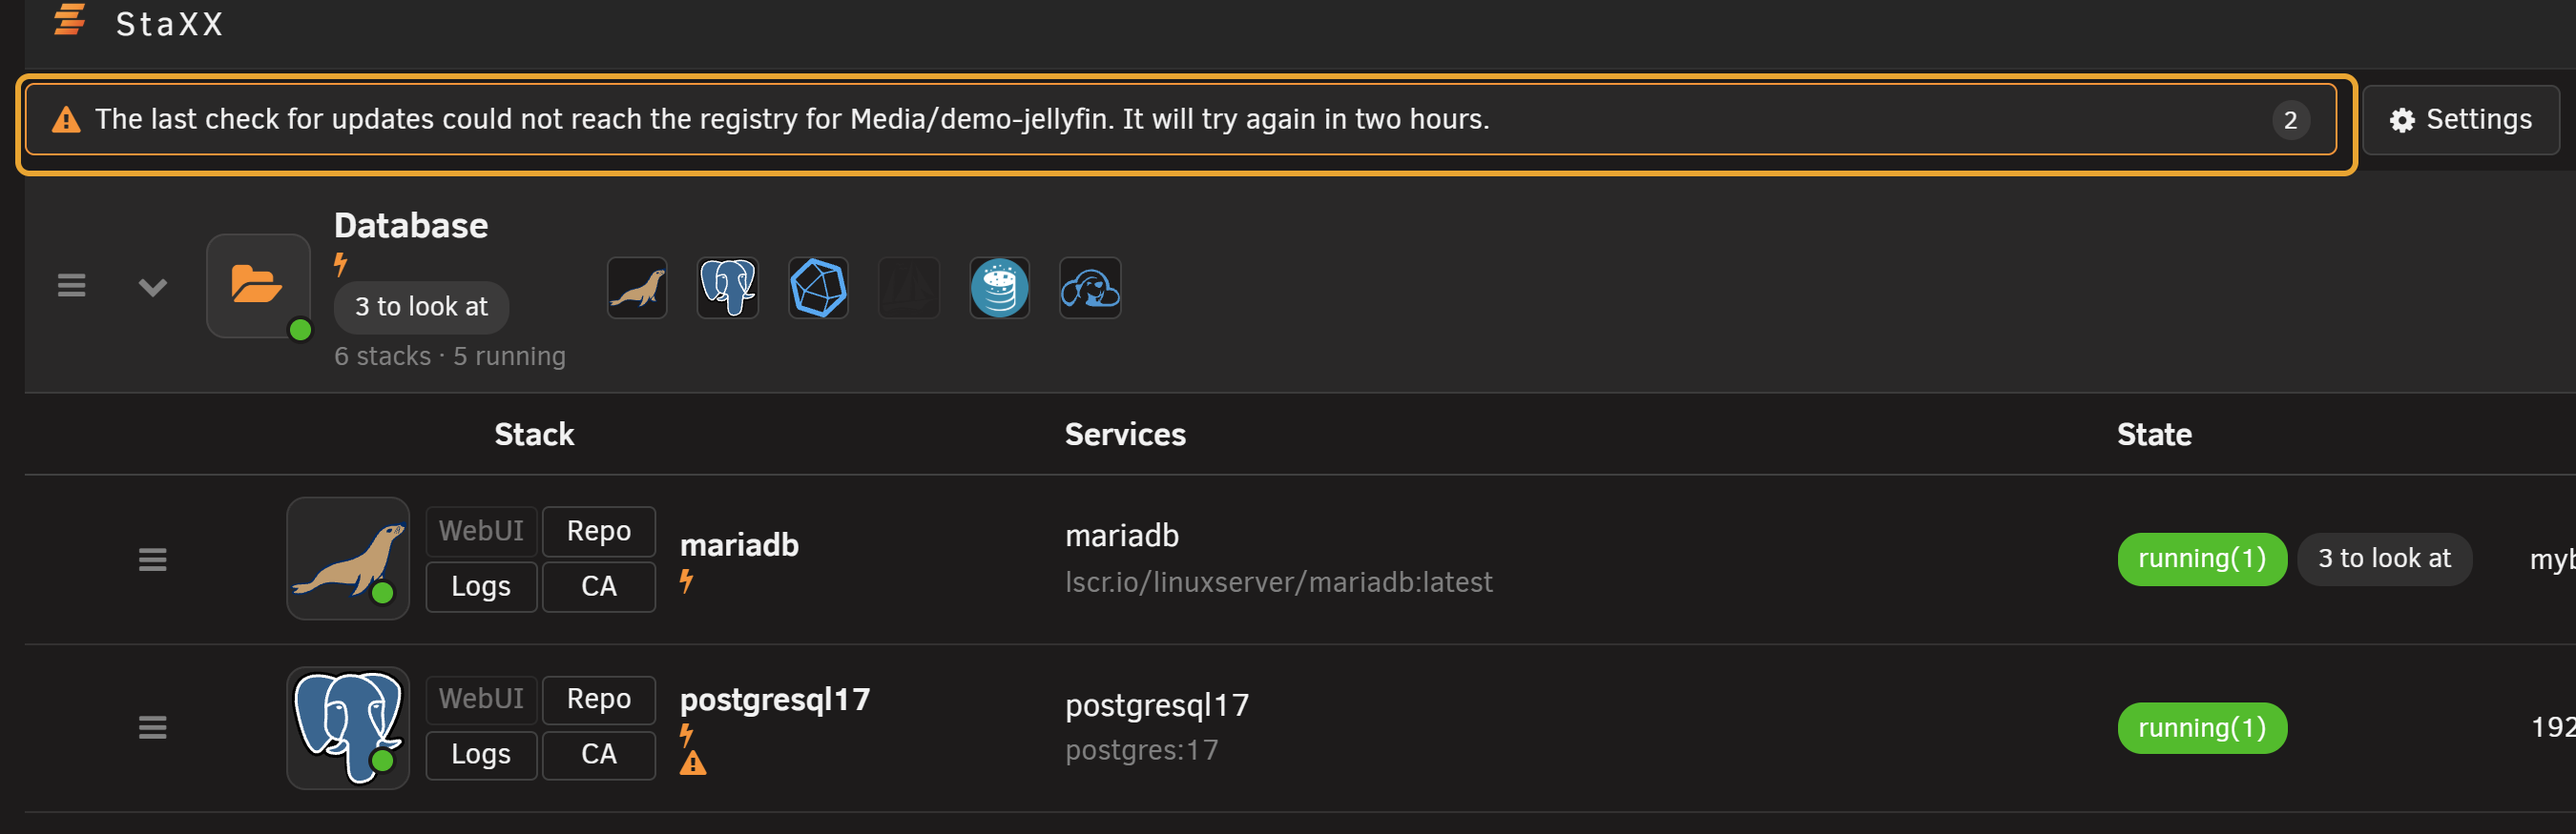
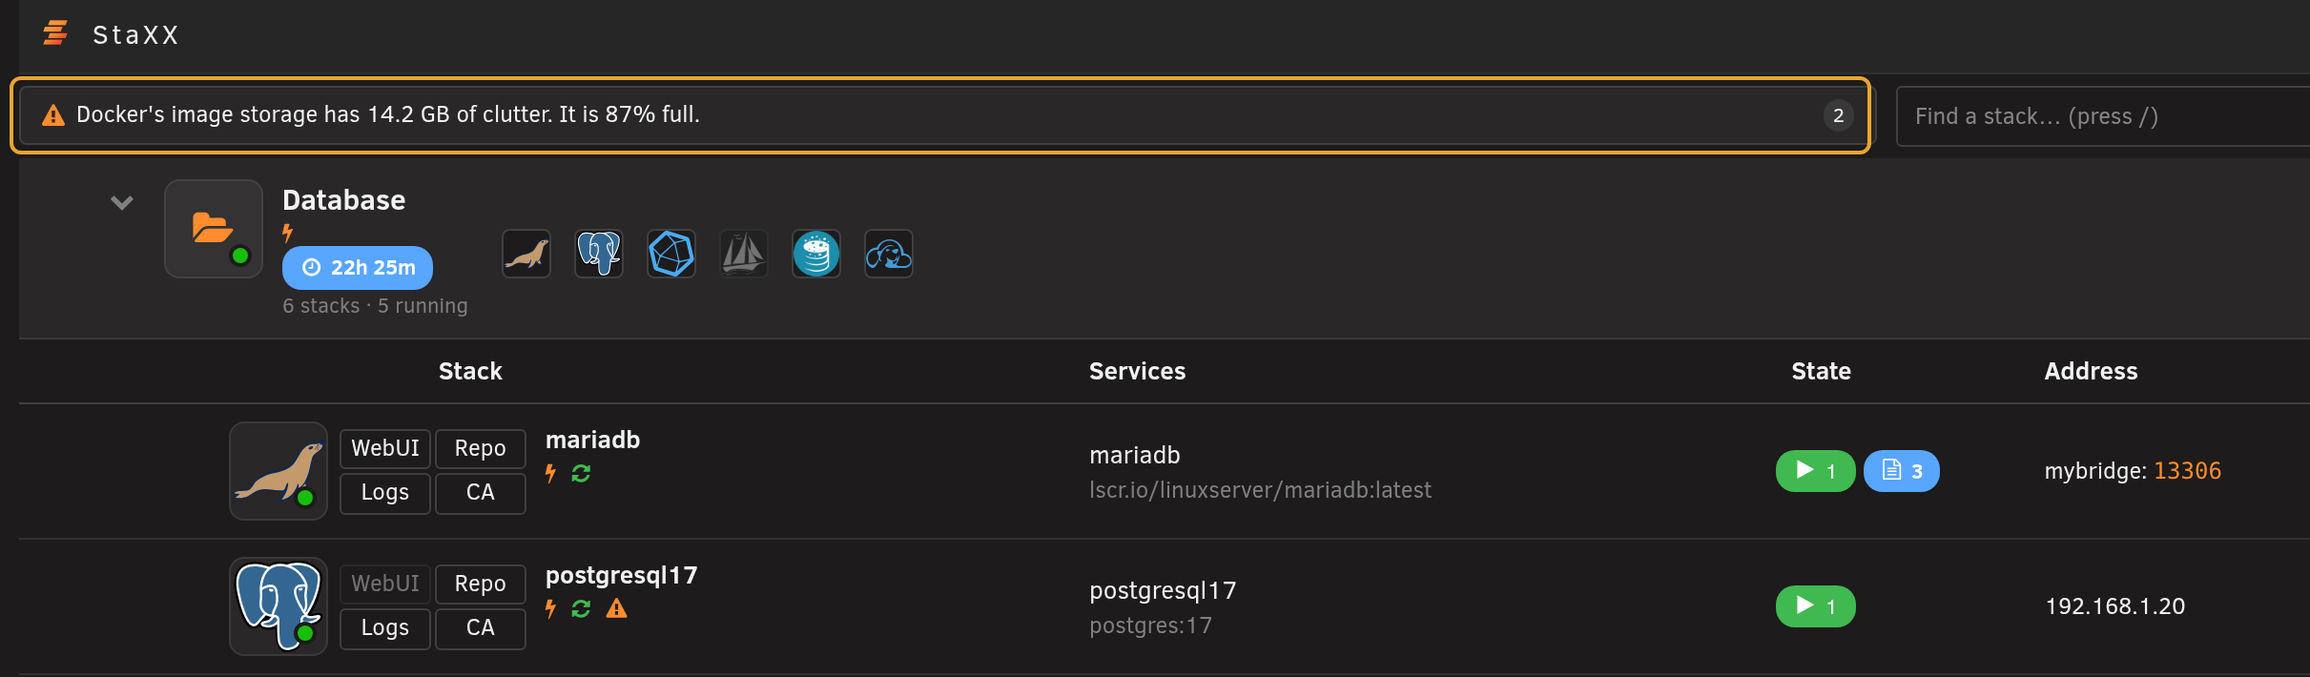
Guide: the stack list page re-shot as the page draws now, locked; a Reordering the list section on Unraid's padlock; row marks and row parts as centred close-ups (PLAN_228)
Claude-Session: https://claude.ai/code/session_01P1YRrWifJ1tpeExJ9ovCp1

diff --git a/docs/guide/the-stack-list.md b/docs/guide/the-stack-list.md
@@ -43,9 +43,9 @@ StaXX remembers what you have dismissed in this browser for a week before showin
 messages, such as Docker not running, cannot be dismissed and clear themselves once the problem is
 fixed.
 
-![The notice line to the left of the button row, ringed: a warning icon, one message about a check that could not reach the registry, and a count of 2 at its right end, with the Database folder and two of its stacks beneath](../images/guide/the-stack-list-notices-ticker.png)
+![The notice line to the left of the button row, ringed: a warning icon, a message saying Docker's image storage has 14.2 GB of clutter and is 87% full, and a count of 2 at its right end, with the Database folder and two of its stacks beneath](../images/guide/the-stack-list-notices-ticker.png)
 
-![The Notifications panel opened under that line: two entries, each with an icon, its message, how long ago it arrived and a dismiss cross, one carrying a Check now button, and a Dismiss all button in the panel's footer](../images/guide/the-stack-list-notices-panel.png)
+![The Notifications panel opened under that line: two entries, each with an icon, its message, how long ago it arrived and a dismiss cross, the first carrying a Review stored images button, and a Dismiss all button in the panel's footer](../images/guide/the-stack-list-notices-panel.png)
 
 ## The title bar
 
@@ -91,7 +91,7 @@ sideways or a small laptop, two on a tablet held upright, one on a phone.
 
 ![The same folder on a tablet held upright: the Database heading, then its stacks as cards two across](../images/guide/the-stack-list-cards-two.png)
 
-![The Database folder on a phone: the heading gives its name, its update marker and its "6 stacks, 5 running" line the full width of the screen, with its six app icons on a line of their own beneath; then its stacks one card per row, each with the WebUI, Logs, Repo and CA buttons on a line of their own at a finger's size and the running chip on the line beneath them](../images/guide/the-stack-list-cards-phone.png)
+![The Database folder on a phone: the heading gives its name, its next-check countdown and its "6 stacks, 5 running" line the full width of the screen, with its six app icons on a line of their own beneath; then its stacks one card per row, each with the WebUI, Logs, Repo and CA buttons on a line of their own at a finger's size and the running chip on the line beneath them](../images/guide/the-stack-list-cards-phone.png)
 
 On a phone, a card's four small buttons take a line of their own at a size a finger can hit, with
 the state chips on the line beneath them.
@@ -111,10 +111,10 @@ services as cards of their own.
 
 | Example | Part | What it does |
 |---|---|---|
-| <img src="../images/guide/the-stack-list-row-handle.png" alt="A stack row close-up with the drag handle at the far left ringed"> | Drag handle | Drag the row to move it. Greyed out when there is nothing to move it against. |
+| <img src="../images/guide/the-stack-list-row-handle.png" alt="A stack row close-up, with the page unlocked, and the drag handle at the far left ringed"> | Drag handle | Shown while Unraid's padlock is open. Drag the row to move it. Greyed out when there is nothing to move it against. |
 | <img src="../images/guide/the-stack-list-row-picture.png" alt="The same row with the app picture ringed, a green dot on its lower corner"> | App picture | Click it to open the stack for editing. The dot on its corner is green when the stack is running, red when a container inside says it is unwell. |
 | <img src="../images/guide/the-stack-list-row-chips.png" alt="The same row with the block of four chips, WebUI, Repo, Logs and CA, ringed"> | Four chips | Shortcuts out to the app and its project. See the table below. |
-| <img src="../images/guide/the-stack-list-row-name.png" alt="The same row with the stack name ringed, a small orange bolt beneath it"> | Name | The folder this stack lives in, which is also its name. The small bolt under it means it starts when the server boots. |
+| <img src="../images/guide/the-stack-list-row-name.png" alt="The same row with the stack name ringed, a small orange bolt and a green circling-arrows mark beneath it"> | Name | The folder this stack lives in, which is also its name. The small bolt under it means it starts when the server boots. |
 
 Two more parts are only on a stack holding more than one container. A cubes button left of the app
 picture opens and closes its container list. A line under the name counts its containers.
@@ -143,10 +143,10 @@ when you hover it. See [row marks and icons](marks.md) for the full key.
 |---|---|---|
 | <img src="../images/guide/the-stack-list-mark-pin.png" alt="A white drawing pin under a stack name"> | Drawing pin, under the name | One or more services is held at one exact build. Hover it to see which. |
 | <img src="../images/guide/the-stack-list-mark-triangle.png" alt="A small orange warning triangle under a stack name"> | Orange triangle, under the name | Either the stack was imported and its original has changed since, or a service is on a network that gives it its own address, so the ports in its file do nothing. Hover it to see which. |
-| <img src="../images/guide/the-stack-list-mark-image-mismatch.png" alt="An orange warning triangle under the image name in the Services column"> | Orange triangle, under the image name | The file asks for a different image than the one running. Restart to apply it. |
-| <img src="../images/guide/the-stack-list-broken-stack.png" alt="A stack row with a red warning triangle where the app picture would be"> | Red triangle in place of the app picture | Compose cannot read this stack's file, or there is no file at all. |
-| <img src="../images/guide/the-stack-list-mark-needs-review.png" alt="An orange outlined tag reading needs review beside a stack name"> | needs review | Imported and not checked over yet. It will not start on its own. |
-| <img src="../images/guide/the-stack-list-mark-waiting-to-confirm.png" alt="An orange outlined button reading waiting to confirm beside a stack name"> | waiting to confirm | Just switched over from an older container. Press it to say whether the app works. |
+| <img src="../images/guide/the-stack-list-mark-image-mismatch.png" alt="An orange warning triangle beside the image name in the Services column"> | Orange triangle, under the image name | The file asks for a different image than the one running. Restart to apply it. |
+| <img src="../images/guide/the-stack-list-mark-broken.png" alt="A red warning triangle in a red-edged box where the app picture would be"> | Red triangle in place of the app picture | Compose cannot read this stack's file, or there is no file at all. |
+| <img src="../images/guide/the-stack-list-mark-needs-review.png" alt="An orange outlined tag reading needs review under a stack name"> | needs review | Imported and not checked over yet. It will not start on its own. |
+| <img src="../images/guide/the-stack-list-mark-waiting-to-confirm.png" alt="An orange outlined button reading waiting to confirm under a stack name"> | waiting to confirm | Just switched over from an older container. Press it to say whether the app works. |
 
 ## The State column
 
@@ -225,7 +225,7 @@ Autostart and Delay work the same way here as on the stack menu, but apply to th
 
 ## Folders
 
-![A collapsed folder row named Media, reading 16 stacks and 12 running, with the row of small app pictures for everything inside it ringed](../images/guide/the-stack-list-folder-row.png)
+![A collapsed folder row named Media, reading 18 stacks and 13 running, with the row of small app pictures for everything inside it ringed, between the Paperless and Tesla folders](../images/guide/the-stack-list-folder-row.png)
 
 ![The folder menu open: Start everything, Stop everything, Check this folder, Update this folder, Rename folder, Folder icon…, Remove icon, Delay and Delete folder](../images/guide/the-stack-list-folder-menu.png)
 A folder row shows totals for everything filed inside it in place of its own Services, State and
@@ -245,6 +245,18 @@ Click its picture to open the folder menu.
 | Delay | How long to wait before the next thing starts. |
 | Delete folder | Deletes the folder. Stacks inside are moved back to the top level first, not deleted. |
 
+## Reordering the list
+
+![The StaXX page unlocked: the padlock in Unraid's top bar ringed and showing red, and a drag handle at the left of every folder row and of each stack row in the open Database folder](../images/guide/the-stack-list-unlocked.png)
+
+The page opens locked. To change the order:
+
+1. Click the padlock in Unraid's top bar. A drag handle appears at the left of every row.
+2. Drag a row by its handle to where you want it.
+3. Click the padlock again to lock the page.
+
+Stacks start in the order they appear on the list.
+
 ## Acting on several stacks at once
 
 Press **Select** on the button row to switch the list into selection mode. Every stack row and every
@@ -252,7 +264,7 @@ folder header gains a switch at its left edge, the same on/off glyph used for Au
 Switching a folder on or off switches every stack inside it; a folder with only some of its stacks on
 shows its switch on but dimmed.
 
-![The list in selection mode: the DEV-TESTING folder header with its switch on but dimmed, two stacks beneath it switched on and a third off, and the bar at the foot saying 2 stacks chosen, in the order shown, with Start, Stop, Restart, Check for updates and Update](../images/guide/the-stack-list-selection-mode.png)
+![The list in selection mode: under the button row, a bar saying 2 stacks chosen, in the order shown, with Start, Stop, Restart, Check for updates, Update, Updates… and Notifications…; below, the DEV-TESTING folder with its switch on but dimmed, and two of its four stacks switched on](../images/guide/the-stack-list-selection-mode.png)
 
 A row of buttons slides open under **Select** once something is chosen: **Start**, **Stop**,
 **Restart**, **Check for updates**, **Update**, **Updates…** and **Notifications…**.
